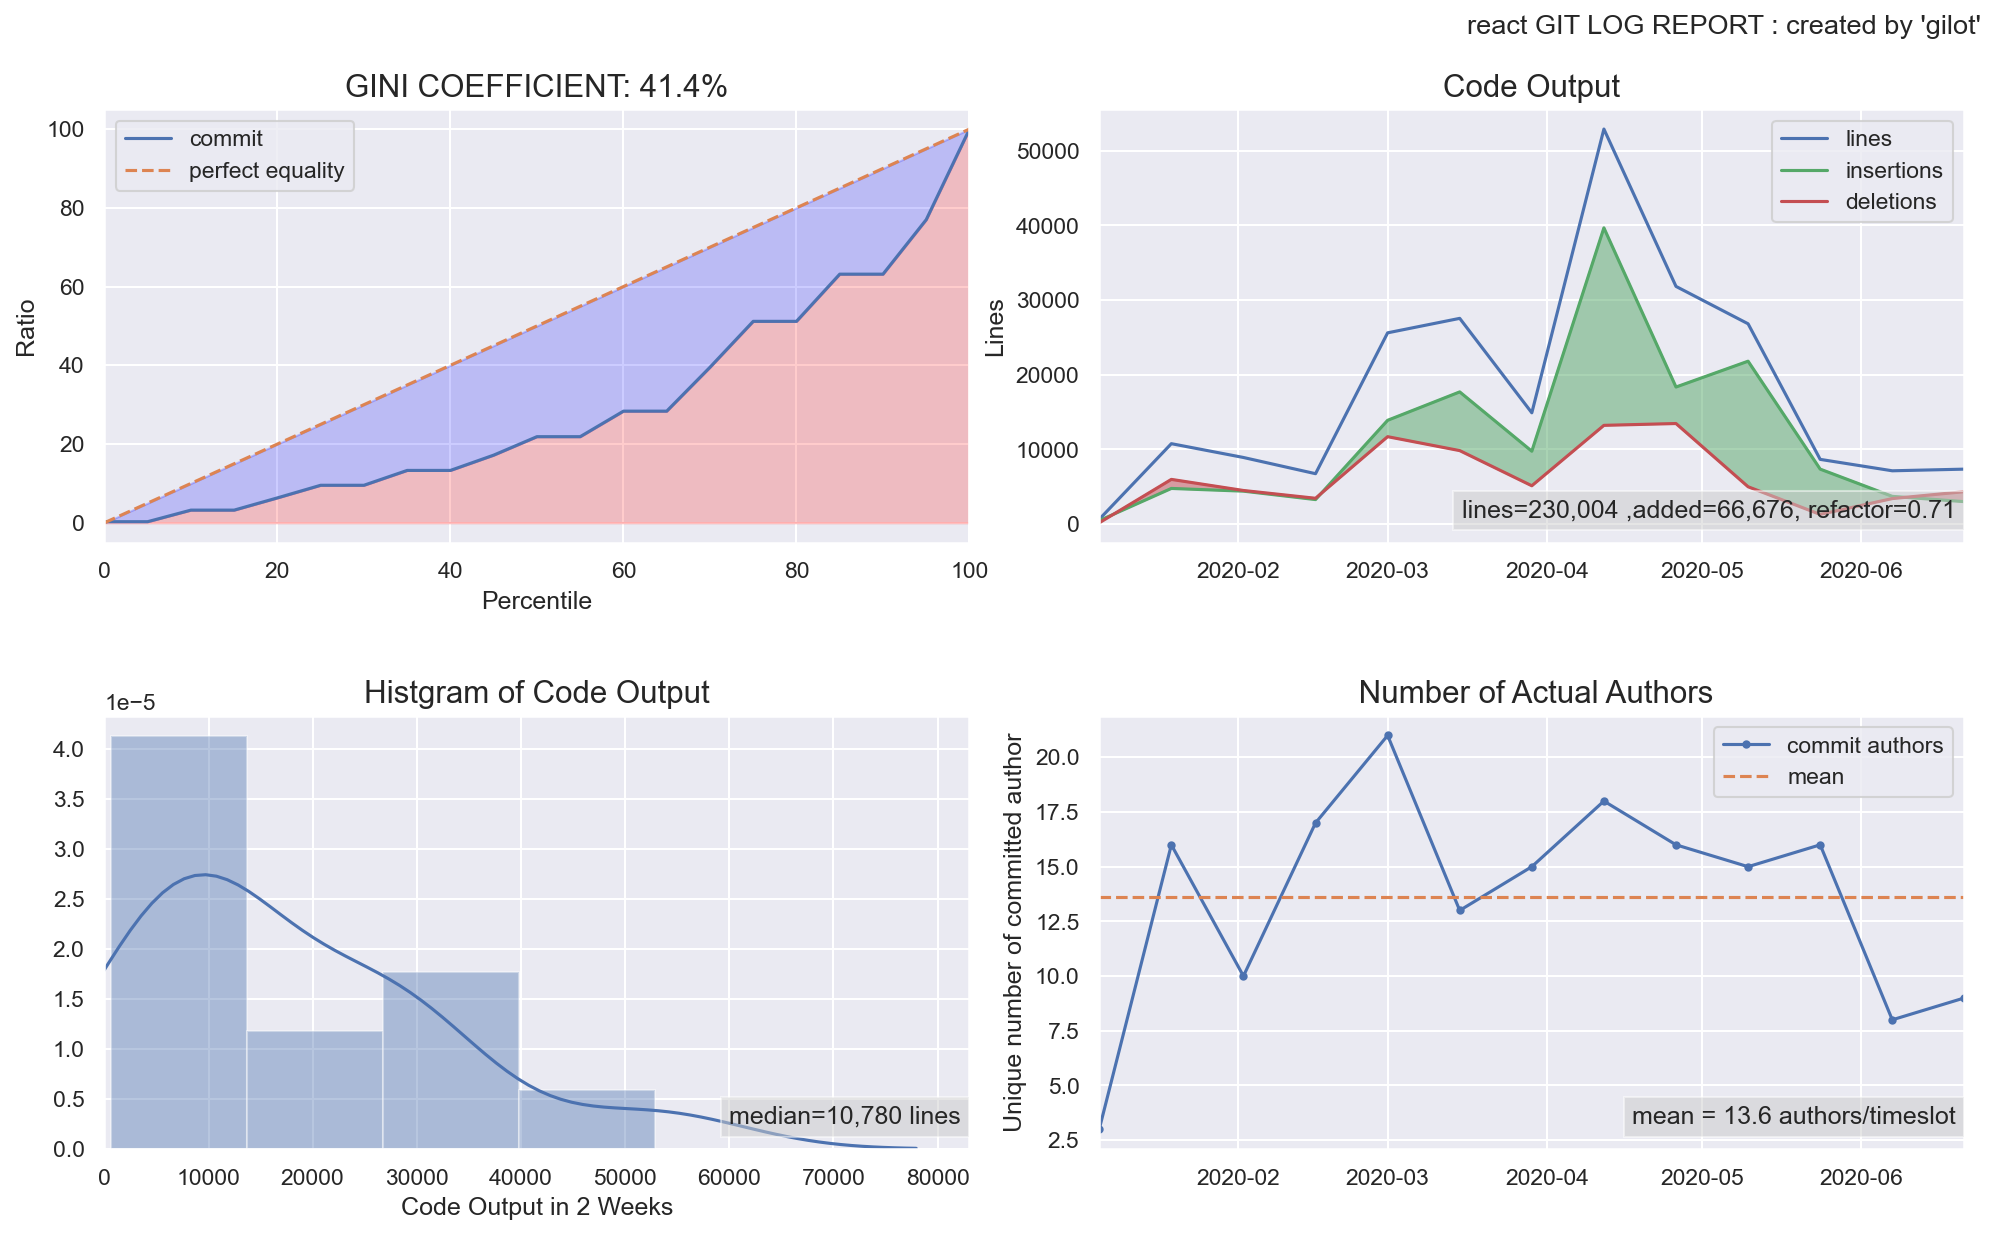
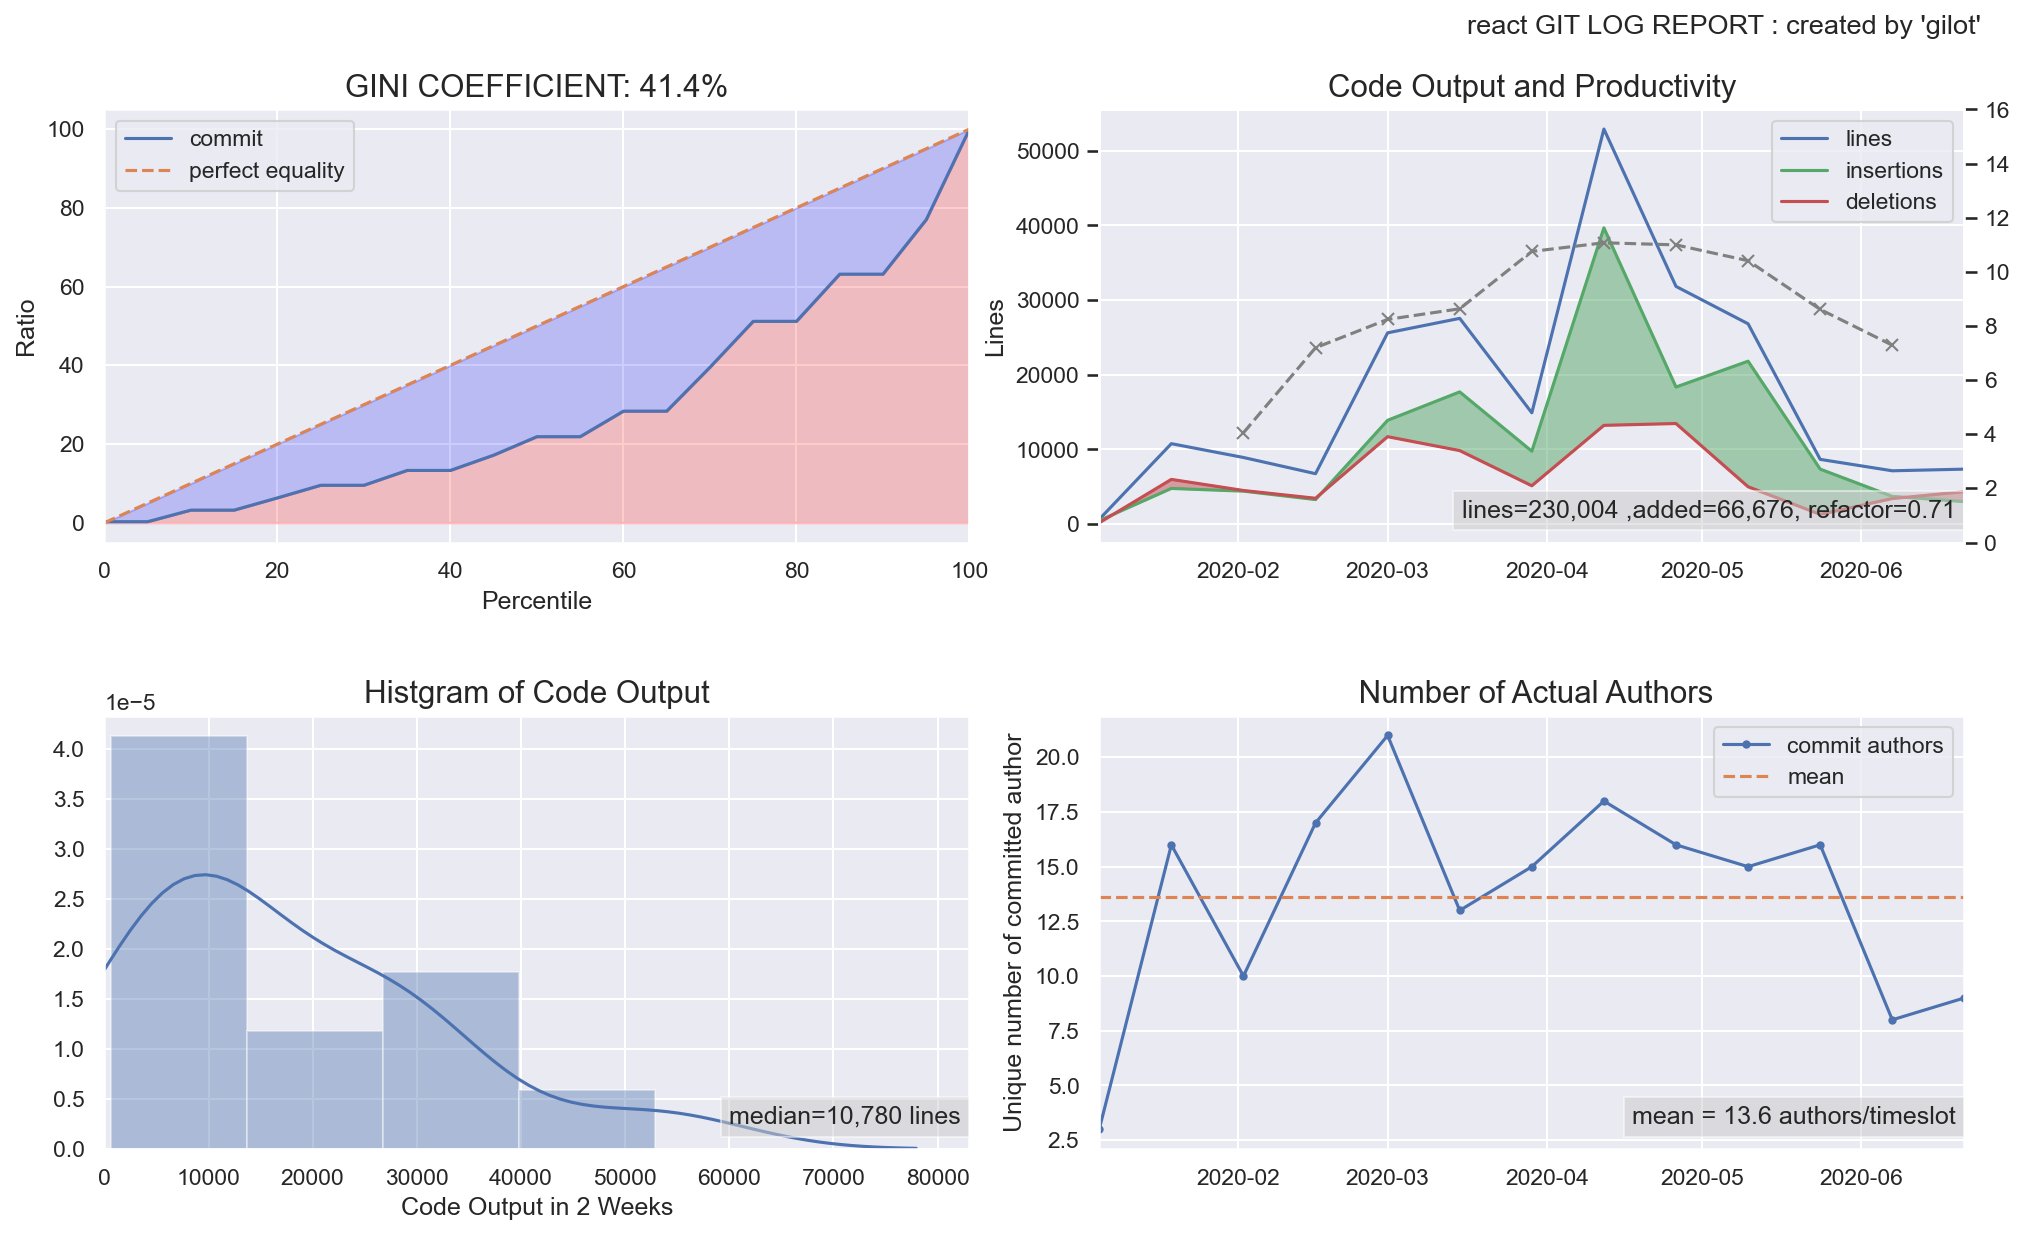
replace image and change logic of estimate size of program

diff --git a/src/gilot/plot.py b/src/gilot/plot.py
@@ -136,11 +136,11 @@ def _plot_productivity(df,plt):
     effort = df["effort"]
     s_time = time ** (4 / 3)
     s_effort = (effort / beta)**(1 / 3)
-    s_size = df["lines"] / 2 * 0.7
+    s_size = np.maximum(df["insertions"] - df["deletions"],df["lines"] / 2) * 0.7
     prod = s_size / (s_effort * s_time)
     level = prod_to_level(prod)
     max_level = int(level.max() + 3)
-    df["level"] = level.rolling(4,center=True).mean()
+    df["level"] = level.rolling(3,center=True).mean()
     ax = plt.gca()
     ax2 = ax.twinx()
     ax2.grid(False)
@@ -152,7 +152,7 @@ def _plot_productivity(df,plt):
 def prod_to_level(prod) :
     a = 600.7669
     b = 1.272067
-    return np.log(prod / a) / np.log(b)
+    return np.maximum(np.log(prod / a) / np.log(b),0)
 
 
 def plot(df, timeslot='2W', output=False, name="[This Graph]"):
